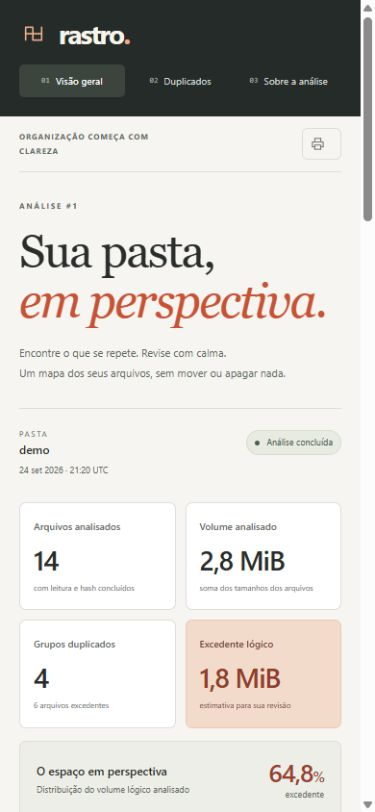
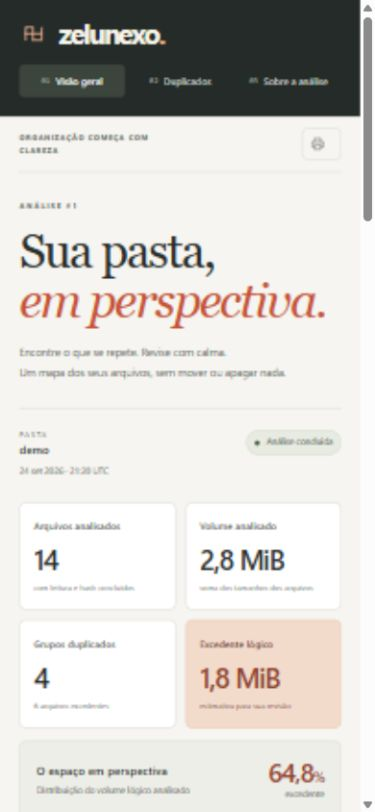
Renomear projeto para Zelunexo e atualizar comandos e documentação

diff --git a/docs/demo.html b/docs/demo.html
@@ -1,8 +1,8 @@
 <!doctype html>
 <html lang="pt-BR">
 <head><meta charset="utf-8"><meta name="viewport" content="width=device-width, initial-scale=1">
-<meta name="color-scheme" content="light"><meta name="description" content="Relatório local de arquivos duplicados, gerado pelo Rastro.">
-<title>Rastro — demo</title><style>:root {
+<meta name="color-scheme" content="light"><meta name="description" content="Relatório local de arquivos duplicados, gerado pelo Zelunexo.">
+<title>Zelunexo — demo</title><style>:root {
   --paper: #f6f5f1;
   --white: #fff;
   --ink: #292d2b;
@@ -1499,7 +1499,7 @@ h1 em {
 <body>
 <a class="skip-link" href="#main">Pular para o relatório</a>
 <aside class="sidebar">
-  <a class="brand" href="#overview" aria-label="Rastro, início do relatório"><svg viewBox="0 0 36 36" aria-hidden="true"><path d="M8 26V10h9v16h11V10"/><path d="M8 18h20"/></svg><span>rastro<span class="brand-dot">.</span></span></a>
+  <a class="brand" href="#overview" aria-label="Zelunexo, início do relatório"><svg viewBox="0 0 36 36" aria-hidden="true"><path d="M8 26V10h9v16h11V10"/><path d="M8 18h20"/></svg><span>zelunexo<span class="brand-dot">.</span></span></a>
   <p class="brand-caption">Um olhar sobre seus arquivos.</p>
   <p class="nav-caption">SEU RELATÓRIO</p>
   <nav aria-label="Seções do relatório">
@@ -1599,10 +1599,10 @@ h1 em {
   </section>
   <section id="scope" class="scope-section" aria-labelledby="scope-title">
     <div class="section-heading"><div><p class="eyebrow">03 / CONTEXTO E CRITÉRIOS</p><h2 id="scope-title">Sobre a análise<span class="heading-dot">.</span></h2></div></div>
-    <div class="method-grid"><article><span class="method-number">01</span><h3>Conteúdo, além do nome</h3><p>Os grupos comparam tamanho e SHA-256. Arquivos vazios entram na contagem, mas não nos grupos.</p></article><article><span class="method-number">02</span><h3>Uma fotografia da pasta</h3><p>O relatório retrata a análise de 24 set 2026 · 21:20 UTC. Mudanças posteriores nos arquivos não aparecem aqui.</p></article><article><span class="method-number">03</span><h3>Decisões nas suas mãos</h3><p>O Rastro apenas analisa. Revise a finalidade de cada cópia antes de organizar seus arquivos.</p></article></div>
+    <div class="method-grid"><article><span class="method-number">01</span><h3>Conteúdo, além do nome</h3><p>Os grupos comparam tamanho e SHA-256. Arquivos vazios entram na contagem, mas não nos grupos.</p></article><article><span class="method-number">02</span><h3>Uma fotografia da pasta</h3><p>O relatório retrata a análise de 24 set 2026 · 21:20 UTC. Mudanças posteriores nos arquivos não aparecem aqui.</p></article><article><span class="method-number">03</span><h3>Decisões nas suas mãos</h3><p>O Zelunexo apenas analisa. Revise a finalidade de cada cópia antes de organizar seus arquivos.</p></article></div>
     <div class="scope-record"><div class="scope-record-heading"><h3>Registro da análise</h3><p>0 ocorrência(s) · 1 item(ns) ignorado(s)</p></div><details class="scope-details"><summary>Itens ignorados <span>1</span></summary><ul class="entry-list"><li><code>.git</code><span>Padrão de exclusão</span></li></ul></details><details class="scope-details"><summary>Padrões de exclusão <span>4</span></summary><ul class="excludes"><li><code>.git</code></li><li><code>node_modules</code></li><li><code>.venv</code></li><li><code>__pycache__</code></li></ul></details></div>
   </section>
-  <footer class="report-footer"><span><strong>rastro.</strong> Clareza para organizar.</span><span>Relatório offline · Tamanhos em unidades binárias (1 KiB = 1.024 B)</span></footer>
+  <footer class="report-footer"><span><strong>zelunexo.</strong> Clareza para organizar.</span><span>Relatório offline · Tamanhos em unidades binárias (1 KiB = 1.024 B)</span></footer>
 </main><script>(() => {
   "use strict";
   const printButton = document.getElementById("print-report");

diff --git a/zelunexo/report.py b/zelunexo/report.py
@@ -143,12 +143,12 @@ def render_html(scan: dict) -> str:
     return f"""<!doctype html>
 <html lang="pt-BR">
 <head><meta charset="utf-8"><meta name="viewport" content="width=device-width, initial-scale=1">
-<meta name="color-scheme" content="light"><meta name="description" content="Relatório local de arquivos duplicados, gerado pelo Rastro.">
-<title>Rastro — {folder}</title><style>{_CSS}</style></head>
+<meta name="color-scheme" content="light"><meta name="description" content="Relatório local de arquivos duplicados, gerado pelo Zelunexo.">
+<title>Zelunexo — {folder}</title><style>{_CSS}</style></head>
 <body>
 <a class="skip-link" href="#main">Pular para o relatório</a>
 <aside class="sidebar">
-  <a class="brand" href="#overview" aria-label="Rastro, início do relatório"><svg viewBox="0 0 36 36" aria-hidden="true"><path d="M8 26V10h9v16h11V10"/><path d="M8 18h20"/></svg><span>rastro<span class="brand-dot">.</span></span></a>
+  <a class="brand" href="#overview" aria-label="Zelunexo, início do relatório"><svg viewBox="0 0 36 36" aria-hidden="true"><path d="M8 26V10h9v16h11V10"/><path d="M8 18h20"/></svg><span>zelunexo<span class="brand-dot">.</span></span></a>
   <p class="brand-caption">Um olhar sobre seus arquivos.</p>
   <p class="nav-caption">SEU RELATÓRIO</p>
   <nav aria-label="Seções do relatório">
@@ -181,14 +181,14 @@ def render_html(scan: dict) -> str:
   </section>
   <section id="scope" class="scope-section" aria-labelledby="scope-title">
     <div class="section-heading"><div><p class="eyebrow">03 / CONTEXTO E CRITÉRIOS</p><h2 id="scope-title">Sobre a análise<span class="heading-dot">.</span></h2></div></div>
-    <div class="method-grid"><article><span class="method-number">01</span><h3>Conteúdo, além do nome</h3><p>Os grupos comparam tamanho e SHA-256. Arquivos vazios entram na contagem, mas não nos grupos.</p></article><article><span class="method-number">02</span><h3>Uma fotografia da pasta</h3><p>O relatório retrata a análise de {date}. Mudanças posteriores nos arquivos não aparecem aqui.</p></article><article><span class="method-number">03</span><h3>Decisões nas suas mãos</h3><p>O Rastro apenas analisa. Revise a finalidade de cada cópia antes de organizar seus arquivos.</p></article></div>
+    <div class="method-grid"><article><span class="method-number">01</span><h3>Conteúdo, além do nome</h3><p>Os grupos comparam tamanho e SHA-256. Arquivos vazios entram na contagem, mas não nos grupos.</p></article><article><span class="method-number">02</span><h3>Uma fotografia da pasta</h3><p>O relatório retrata a análise de {date}. Mudanças posteriores nos arquivos não aparecem aqui.</p></article><article><span class="method-number">03</span><h3>Decisões nas suas mãos</h3><p>O Zelunexo apenas analisa. Revise a finalidade de cada cópia antes de organizar seus arquivos.</p></article></div>
     <div class="scope-record"><div class="scope-record-heading"><h3>Registro da análise</h3><p>{_number(len(issues))} ocorrência(s) · {_number(len(skipped))} item(ns) ignorado(s)</p></div>{exceptions}</div>
   </section>
-  <footer class="report-footer"><span><strong>rastro.</strong> Clareza para organizar.</span><span>Relatório offline · Tamanhos em unidades binárias (1 KiB = 1.024 B)</span></footer>
+  <footer class="report-footer"><span><strong>zelunexo.</strong> Clareza para organizar.</span><span>Relatório offline · Tamanhos em unidades binárias (1 KiB = 1.024 B)</span></footer>
 </main><script>{_JS}</script></body></html>"""
 
 
-_CSS = files("rastro").joinpath("assets/report.css").read_text(encoding="utf-8")
+_CSS = files("zelunexo").joinpath("assets/report.css").read_text(encoding="utf-8")
 
 
-_JS = files("rastro").joinpath("assets/report.js").read_text(encoding="utf-8")
+_JS = files("zelunexo").joinpath("assets/report.js").read_text(encoding="utf-8")

diff --git a/zelunexo/cli.py b/zelunexo/cli.py
@@ -12,7 +12,7 @@ from .domain import group_duplicates, summarize
 from .scanner import scan_folder
 from .storage import list_scans, load_scan, save_scan
 
-DEFAULT_DATABASE = Path(".rastro/historico.sqlite3")
+DEFAULT_DATABASE = Path(".zelunexo/historico.sqlite3")
 
 
 def terminal_text(value: object) -> str:
@@ -31,10 +31,10 @@ def format_bytes(value: int) -> str:
 
 def parser() -> argparse.ArgumentParser:
     root = argparse.ArgumentParser(
-        prog="rastro", description="Encontre arquivos duplicados pelo conteúdo, sem alterar os originais.",
-        epilog="Exemplo: python -m rastro analisar ./demo --html ./relatorio.html",
+        prog="zelunexo", description="Encontre arquivos duplicados pelo conteúdo, sem alterar os originais.",
+        epilog="Exemplo: python -m zelunexo analisar ./demo --html ./relatorio.html",
     )
-    root.add_argument("--version", action="version", version=f"Rastro {__version__}")
+    root.add_argument("--version", action="version", version=f"Zelunexo {__version__}")
     commands = root.add_subparsers(dest="command", required=True, title="comandos")
     demo = commands.add_parser("demo", help="criar arquivos fictícios em uma pasta nova")
     demo.add_argument("pasta", type=Path, help="pasta que ainda não existe")
@@ -81,8 +81,8 @@ def write_export(scan: dict, path: Path, output_format: str) -> None:
 def execute(args: argparse.Namespace) -> int:
     if args.command == "demo":
         count = create_demo(args.pasta)
-        print(f"Rastro · {count} arquivos fictícios criados em {terminal_text(args.pasta)}.")
-        print("Próximo passo: python -m rastro analisar \"" + terminal_text(args.pasta) + '\" --html ./relatorio.html')
+        print(f"Zelunexo · {count} arquivos fictícios criados em {terminal_text(args.pasta)}.")
+        print("Próximo passo: python -m zelunexo analisar \"" + terminal_text(args.pasta) + '\" --html ./relatorio.html')
         return 0
     if args.command == "analisar":
         require_outside(args.pasta, args.banco, "O banco")
@@ -95,7 +95,7 @@ def execute(args: argparse.Namespace) -> int:
         scan = scan_folder(args.pasta, args.ignorar)
         scan["id"] = save_scan(args.banco, scan)
         summary = summarize(scan)
-        print(f"\nRastro · Análise #{scan['id']} · {'PARCIAL' if scan['issues'] else 'concluída'}")
+        print(f"\nZelunexo · Análise #{scan['id']} · {'PARCIAL' if scan['issues'] else 'concluída'}")
         print(f"{summary['scanned_files']} arquivos lidos · {format_bytes(summary['total_bytes'])}")
         print(f"{summary['duplicate_groups']} grupos · {summary['redundant_files']} cópias excedentes · {format_bytes(summary['potential_bytes'])} redundantes")
         print("Estimativa de bytes lógicos. Nenhum arquivo original foi alterado.")
@@ -114,9 +114,9 @@ def execute(args: argparse.Namespace) -> int:
         return 0
     if args.command == "historico":
         scans = list_scans(args.banco)
-        print("Rastro · Histórico (últimas 20 análises)\n")
+        print("Zelunexo · Histórico (últimas 20 análises)\n")
         if not scans:
-            print("Nenhuma análise salva. Comece com: python -m rastro analisar ./demo")
+            print("Nenhuma análise salva. Comece com: python -m zelunexo analisar ./demo")
         for scan in scans:
             state = "parcial" if scan["issues_count"] else "completa"
             print(f"#{scan['id']} · {terminal_text(scan['created_at'])} · {terminal_text(scan['folder'])} · {state}")

diff --git a/tests/test_scanner.py b/tests/test_scanner.py
@@ -9,8 +9,8 @@ from types import SimpleNamespace
 import unittest
 from unittest.mock import patch
 
-from rastro.domain import group_duplicates, summarize
-from rastro.scanner import BLOCK_SIZE, digest_file, scan_folder
+from zelunexo.domain import group_duplicates, summarize
+from zelunexo.scanner import BLOCK_SIZE, digest_file, scan_folder
 
 
 def changed_stat(info):
@@ -181,7 +181,7 @@ class ScannerTests(unittest.TestCase):
                 raise PermissionError(errno.EACCES, "Acesso negado")
             return original_open(path, flags, *args, **kwargs)
 
-        with patch("rastro.scanner.os.open", side_effect=controlled_open):
+        with patch("zelunexo.scanner.os.open", side_effect=controlled_open):
             scan = scan_folder(self.root)
 
         self.assertEqual([file["path"] for file in scan["files"]], ["permitido.txt"])
@@ -197,7 +197,7 @@ class ScannerTests(unittest.TestCase):
                 raise PermissionError(errno.EACCES, "Pasta sem acesso")
             return original_scandir(path)
 
-        with patch("rastro.scanner.os.scandir", side_effect=controlled_scandir):
+        with patch("zelunexo.scanner.os.scandir", side_effect=controlled_scandir):
             scan = scan_folder(self.root)
 
         self.assertEqual([file["path"] for file in scan["files"]], ["permitido.txt"])
@@ -207,7 +207,7 @@ class ScannerTests(unittest.TestCase):
         path = self.write_file("mudou.txt")
         expected = path.lstat()
 
-        with patch("rastro.scanner.os.fstat", return_value=changed_stat(expected)):
+        with patch("zelunexo.scanner.os.fstat", return_value=changed_stat(expected)):
             with self.assertRaisesRegex(OSError, "mudou antes"):
                 digest_file(path, expected)
 
@@ -218,7 +218,7 @@ class ScannerTests(unittest.TestCase):
         descriptor_info.st_mtime_ns = expected.st_mtime_ns
         descriptor_info.st_ctime_ns += 100
 
-        with patch("rastro.scanner.os.fstat", side_effect=[descriptor_info, descriptor_info]):
+        with patch("zelunexo.scanner.os.fstat", side_effect=[descriptor_info, descriptor_info]):
             digest = digest_file(path, expected)
 
         self.assertEqual(digest, hashlib.sha256(b"estavel").hexdigest())
@@ -230,7 +230,7 @@ class ScannerTests(unittest.TestCase):
         changed.st_mtime_ns = expected.st_mtime_ns
         changed.st_ctime_ns += 1
 
-        with patch("rastro.scanner.os.fstat", side_effect=[expected, changed]):
+        with patch("zelunexo.scanner.os.fstat", side_effect=[expected, changed]):
             with self.assertRaisesRegex(OSError, "mudou durante"):
                 digest_file(path, expected)
 
@@ -256,7 +256,7 @@ class ScannerTests(unittest.TestCase):
         path = self.write_file("mudou.txt")
         expected = path.lstat()
 
-        with patch("rastro.scanner.os.fstat", side_effect=[expected, changed_stat(expected)]):
+        with patch("zelunexo.scanner.os.fstat", side_effect=[expected, changed_stat(expected)]):
             scan = scan_folder(self.root)
 
         self.assertEqual(scan["files"], [])

diff --git a/zelunexo/storage.py b/zelunexo/storage.py
@@ -46,7 +46,7 @@ def connect(path: Path, *, create: bool = False):
         version = connection.execute("PRAGMA user_version").fetchone()[0]
         if create:
             if version not in (0, 1):
-                raise ValueError("Versão de banco incompatível com este Rastro.")
+                raise ValueError("Versão de banco incompatível com este Zelunexo.")
             if (version == 1 and application_id != APPLICATION_ID) or (
                 version == 0 and application_id not in (0, APPLICATION_ID)
             ):
@@ -57,7 +57,7 @@ def connect(path: Path, *, create: bool = False):
                     raise ValueError("O arquivo SQLite pertence a outro aplicativo. Escolha outro --banco.")
                 connection.executescript(SCHEMA + f"PRAGMA application_id = {APPLICATION_ID}; PRAGMA user_version = 1;")
         elif version != 1 or application_id != APPLICATION_ID:
-            raise ValueError("Este arquivo não é um histórico compatível do Rastro.")
+            raise ValueError("Este arquivo não é um histórico compatível do Zelunexo.")
         yield connection
     finally:
         connection.close()

diff --git a/tests/test_cli.py b/tests/test_cli.py
@@ -6,8 +6,8 @@ import tempfile
 import unittest
 from unittest.mock import patch
 
-from rastro.cli import main, terminal_text
-from rastro.storage import list_scans
+from zelunexo.cli import main, terminal_text
+from zelunexo.storage import list_scans
 
 
 class CliTests(unittest.TestCase):
@@ -64,7 +64,7 @@ class CliTests(unittest.TestCase):
 
     def test_partial_scan_is_persisted_but_exit_is_three(self):
         self.demo.mkdir()
-        with patch("rastro.scanner.digest_file", side_effect=PermissionError("Sem acesso")):
+        with patch("zelunexo.scanner.digest_file", side_effect=PermissionError("Sem acesso")):
             (self.demo / "a.txt").write_text("arquivo")
             code, output, errors = self.call("analisar", self.demo, "--banco", self.db)
         self.assertEqual(code, 3)

diff --git a/tests/test_storage.py b/tests/test_storage.py
@@ -8,7 +8,7 @@ import sqlite3
 import tempfile
 import unittest
 
-from rastro.storage import connect, list_scans, load_scan, save_scan
+from zelunexo.storage import connect, list_scans, load_scan, save_scan
 
 
 def sample_scan():
@@ -32,7 +32,7 @@ class StorageTests(unittest.TestCase):
         self.temporary = tempfile.TemporaryDirectory()
         self.addCleanup(self.temporary.cleanup)
         self.directory = Path(self.temporary.name)
-        self.database = self.directory / "histórico 東京" / "rastro.sqlite3"
+        self.database = self.directory / "histórico 東京" / "zelunexo.sqlite3"
 
     def test_roundtrip_preserves_unicode_metadata_and_sorted_files(self):
         original = sample_scan()

diff --git a/zelunexo/demo.py b/zelunexo/demo.py
@@ -27,7 +27,7 @@ def create_demo(destination: Path) -> int:
         "entregas/cartaz-aprovado.svg": poster,
         "projetos/feira/notas.md": b"# Pendencias ficticias\nRevisar o horario das oficinas.\n",
         "projetos/horizonte/notas.md": b"# Pendencias ficticias\nConferir as margens do material.\n",
-        "referencias/leia-me.txt": "Acervo gerado pelo Rastro. Todos os dados são fictícios.\n".encode(),
+        "referencias/leia-me.txt": "Acervo gerado pelo Zelunexo. Todos os dados são fictícios.\n".encode(),
         "referencias/rascunho-vazio.txt": b"",
         ".git/ignorado.txt": b"Este arquivo demonstra uma exclusao padrao.\n",
     }

diff --git a/tests/test_report.py b/tests/test_report.py
@@ -3,7 +3,7 @@
 from html.parser import HTMLParser
 import unittest
 
-from rastro.report import format_size, render_html
+from zelunexo.report import format_size, render_html
 
 
 class Document(HTMLParser):

diff --git a/tests/test_domain.py b/tests/test_domain.py
@@ -2,7 +2,7 @@
 
 import unittest
 
-from rastro.domain import group_duplicates, summarize
+from zelunexo.domain import group_duplicates, summarize
 
 
 def file_record(path, size, digest):
